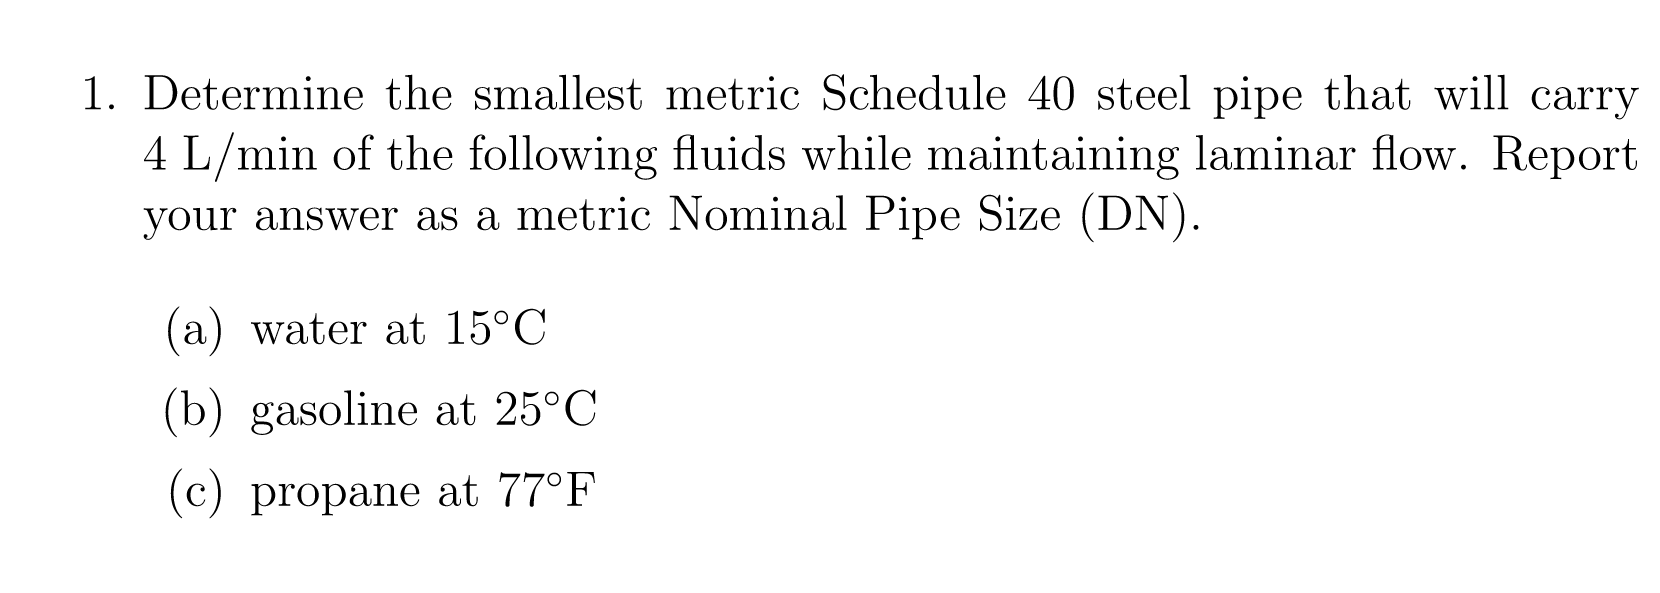
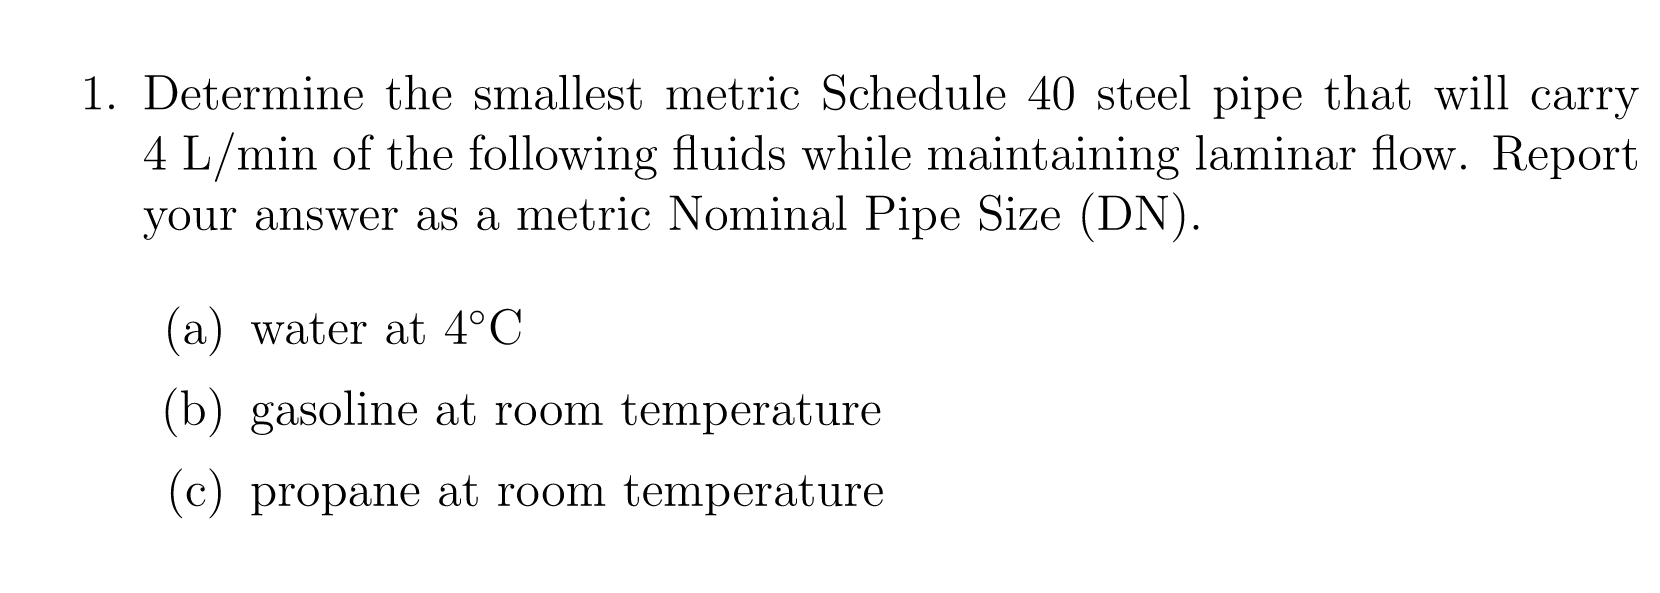
Statics

Changed region(s): [[0.2765, 0.6374, 0.5223, 0.7285], [0.2765, 0.7892, 0.553, 0.8803], [0.2458, 0.516, 0.338, 0.5767]]

diff --git a/teaching/Fall2018MET201.html b/teaching/Fall2018MET201.html
@@ -99,37 +99,37 @@
     </tr>
     <tr>
       <th scope="row">Nov 5</th>
-      <td>Chapter 5</td>
-      <td></td>
+      <td>Chapter 5: Method of joints</td>
+      <td>Textbook: 5.2, 5.5, 5.7</td>
       <td></td>
     </tr>
     <tr>
       <th scope="row">Nov 12</th>
-      <td></td>
-      <td></td>
+      <td>Chapter 5: Method of sections and Frames</td>
+      <td><a href="https://goo.gl/forms/DVzMOJoTuoV9LOzE2">Homework 8</a> (submit by Nov 26)<BR>Textbook: 5.8, 5.9, 5.12, 5.24, 5.32</td>
       <td></td>
     </tr>
     <tr>
       <th scope="row">Nov 19</th>
-      <td></td>
+      <td>Chapter 6: Friction</td>
       <td></td>
       <td></td>
     </tr>
     <tr>
       <th scope="row">Nov 26</th>
-      <td></td>
+      <td>Chapter 6: Friction</td>
       <td></td>
       <td></td>
     </tr>
     <tr>
       <th scope="row">Dec 3</th>
-      <td></td>
+      <td>Chapter 7: Centroids and Center of Gravity</td>
       <td></td>
       <td></td>
     </tr>
     <tr>
       <th scope="row">Dec 10</th>
-      <td></td>
+      <td>Chapter 8: Area Moments of Inertia</td>
       <td></td>
       <td></td>
     </tr>

diff --git a/teaching/Applied-Fluids/Homework/unit7.tex b/teaching/Applied-Fluids/Homework/unit7.tex
@@ -21,11 +21,11 @@ Determine the smallest metric Schedule 40 steel pipe that will carry 4~L/min of 
 
 \begin{enumerate}
 
-\item water at $15\C$
+\item water at $4\C$
 
-\item gasoline at $25\C$
+\item gasoline at room temperature
 
-\item propane at $77\F$
+\item propane at room temperature
 
 \end{enumerate}
 
